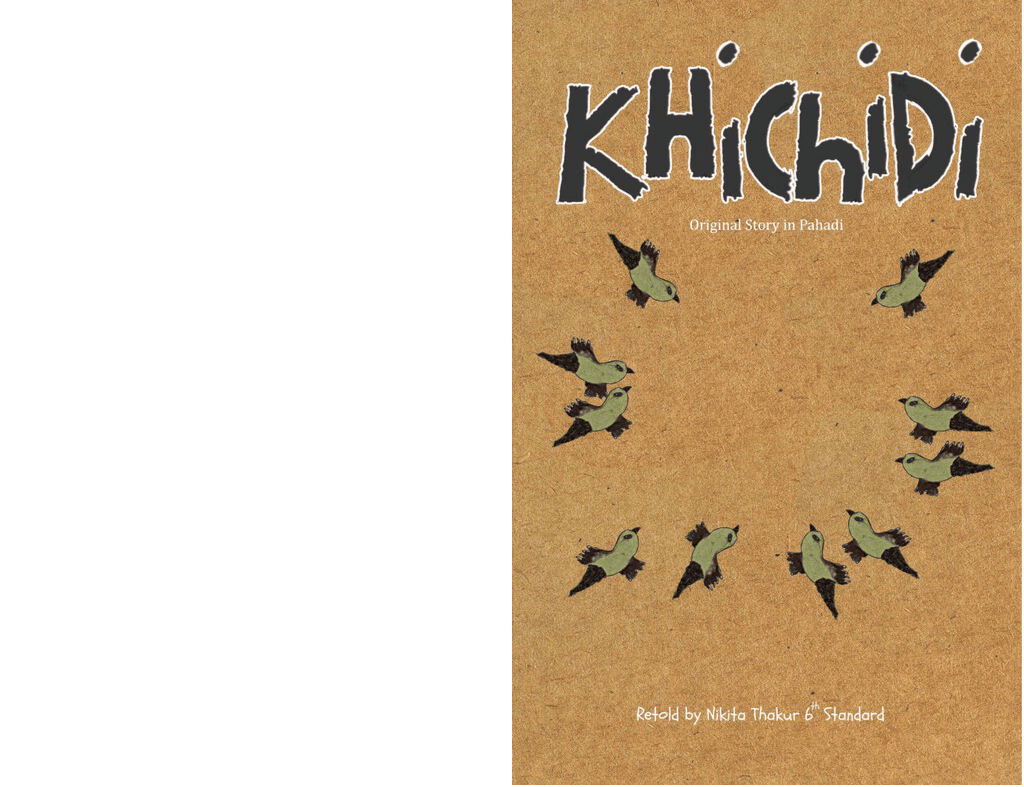
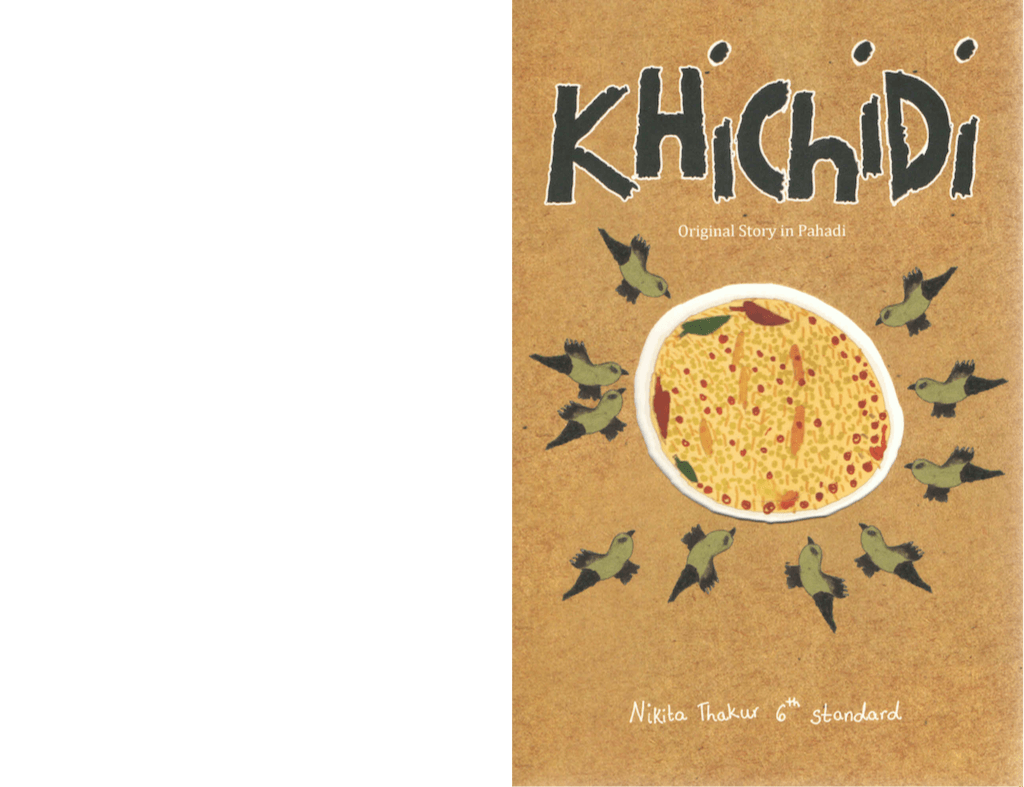
Cosmetic changes. mailto: body text changed to "Dear LeTS Team" cosmetic placement fixes for text on OnePlus mobile disabled audio book functionality entirely for now Khichdi cover changed. 	modified:   aboutus.html 	modified:   assets/css/index.css 	modified:   assets/img/books/Khichdi/00.png 	modi

Changed region(s): [[0.5, 0.0, 1.0, 1.0]]

diff --git a/process.html b/process.html
@@ -102,7 +102,7 @@
                 <div>
                     Workshops have varied from place to place, though the time spent together (4-5 days) and the primary purpose (skill-building, producing one book or several) have remained consistent over the years.</div>
                 <div>
-                    Sometimes story-telling happens during the workshop too, using word- and sentence- building games as starting points. This is generally done in groups of no more than 10 students.
+                    Sometimes story-telling happens during the workshop too, using word- and sentence- building games as starting points.  This is generally done by dividing the class into groups of roughly ten students each. 
                 </div>
                 <div>
                     After the stories are selected, students are encouraged to explore character design, settings, whether interior spaces or outside landscapes, and other such elements that are required to tell the story visually. Formats are explored, as are materials, from found-material collages using ropes, grass, leaves and rocks to create forms, to pen-and-ink drawings, crayons, sketch pens and paints of different kinds.
@@ -165,8 +165,8 @@
     <div id="footer">
         <div id="logotext"> <img src="assets/img/ftr-logo.png"> </div>
         <div id="social">
-          <a href="mailto:contactletsfoundation@gmail.com?body=Please%20tell%20us%20about%20yourself%20and%20share%20your%20thoughts.">
-            <span class="fa icon-mail"></span>
+          <a href="mailto:contactletsfoundation@gmail.com?body=Dear%20LeTS%20team,">
+                <span class="fa icon-mail"></span>
           </a>
           <a href="#"> <span class="fa icon-facebook"></span></a>
           <a href="#"> <span class="fa icon-instagram"></span></a>

diff --git a/gallery.html b/gallery.html
@@ -59,8 +59,8 @@
     <div id="footer">
         <div id="logotext"> <img src="assets/img/ftr-logo.png"> </div>
         <div id="social">
-          <a href="mailto:contactletsfoundation@gmail.com?body=Please%20tell%20us%20about%20yourself%20and%20share%20your%20thoughts.">
-            <span class="fa icon-mail"></span>
+          <a href="mailto:contactletsfoundation@gmail.com?body=Dear%20LeTS%20team,">
+                <span class="fa icon-mail"></span>
           </a>
           <a href="#"> <span class="fa icon-facebook"></span></a>
           <a href="#"> <span class="fa icon-instagram"></span></a>
@@ -161,7 +161,7 @@
                 {
                     src: "large/Artwork_Monster.jpg",
                     srct: "thumb/Artwork_Monster.jpg",
-                    title: `Rupesh Vadhav (Std. VII). Artwork for “The Monster and the Little Boy”, Gram Mangal School, Dahanu, Maharashtra`,
+                    title: `Artwork by Rupesh Vadhav (Std. VII) for "The Monster and The Little Boy", Gram Mangal School, Dahanu, Maharashtra`,
                     height: 564, width: 800,
                     imgtWidth: 282, imgtHeight: 400,
                 },

diff --git a/books.html b/books.html
@@ -38,7 +38,7 @@
         <div id="book-open"> </div>         <!-- Placeholder for book modal -->
         <div id="shelf">
             <div id="ck" class="grid-cell">
-                <div class="book-on-shelf" onclick="openBook('CleverKalyani', true);">
+                <div class="book-on-shelf" onclick="openBook('CleverKalyani');">
                     <img src='assets/img/books/CleverKalyani/00-small.jpg'>
                 </div>
             </div>
@@ -131,8 +131,8 @@
     <div id="footer">
         <div id="logotext"> <img src="assets/img/ftr-logo.png"> </div>
         <div id="social">
-          <a href="mailto:contactletsfoundation@gmail.com?body=Please%20tell%20us%20about%20yourself%20and%20share%20your%20thoughts.">
-            <span class="fa icon-mail"></span>
+          <a href="mailto:contactletsfoundation@gmail.com?body=Dear%20LeTS%20team,">
+                <span class="fa icon-mail"></span>
           </a>
           <a href="#"> <span class="fa icon-facebook"></span></a>
           <a href="#"> <span class="fa icon-instagram"></span></a>

diff --git a/assets/css/index.css b/assets/css/index.css
@@ -62,6 +62,14 @@ body > .section {
   top: 34%;
 }
 
+#intro-text-wrapper {
+  width: 45%;
+  height: 16.5%;
+  color: rgb(56, 63, 57);
+  left: 53%;
+  top: 33%;
+}
+
 #logo-text-wrapper {
   width: 40%;
   top: 51%;
@@ -98,7 +106,7 @@ h2 {
 #book-sample {
   display: flex;
   flex-direction: column;
-  top: 9.4%;
+  top: 10%;
   left: 58%;
   font-size: 0.8rem;
   width: 42%;
@@ -120,8 +128,9 @@ h2 {
   height: 11%;
   color: rgb(56, 63, 57);
   left: 40%;
-  top: 27%;
+  top: 29%;
 }
+
 
 .open-anim-video {
 	height:300px;
@@ -136,19 +145,19 @@ h2 {
 
 
 #apps-text-wrapper {
-  width: 44%;
-  height: 7%;
+  width: 49%;
+  height: 8%;
   color: rgb(56, 63, 57);
-  left: 52%;
-  top: 55%;
+  left: 50%;
+  top: 56.5%;
 }
 
 #other-sub-text-wrapper {
   width: 53%;
-  height: 4%;
+  height: 6%;
   color: rgb(56, 63, 57);
   left: 40%;
-  top: 64%;
+  top: 65%;
 }
 
 .bg-img {

diff --git a/index.html b/index.html
@@ -153,8 +153,8 @@
         </div>
       </div>
     </div>
-    <div id="book-sample" class="text-wrapper" onclick="openBook('CleverKalyani', true)"> 
-      <p>Please click here for a sample audiobook.</p>
+    <div id="book-sample" class="text-wrapper" onclick="openBook('CleverKalyani')"> 
+      <p>Click here to see a sample book.</p>
     </div>
 
     <div id="book-open"></div> <!-- div for modal -->
@@ -199,7 +199,7 @@
   <div id="footer">
     <div id="logotext"> <img src="assets/img/ftr-logo.png"> </div>
     <div id="social">
-      <a href="mailto:contactletsfoundation@gmail.com?body=Please%20tell%20us%20about%20yourself%20and%20share%20your%20thoughts.">
+      <a href="mailto:contactletsfoundation@gmail.com?body=Dear%20LeTS%20team,">
         <span class="fa icon-mail"></span>
       </a>
       <a href="#"> <span class="fa icon-facebook"></span></a>

diff --git a/aboutus.html b/aboutus.html
@@ -178,8 +178,7 @@
   <div id="footer">
     <div id="logotext"> <img src="assets/img/ftr-logo.png"> </div>
     <div id="social">
-      <a
-        href="mailto:contactletsfoundation@gmail.com?body=Please%20tell%20us%20about%20yourself%20and%20share%20your%20thoughts.">
+      <a href="mailto:contactletsfoundation@gmail.com?body=Dear%20LeTS%20team,">
         <span class="fa icon-mail"></span>
       </a>
       <a href="#"> <span class="fa icon-facebook"></span></a>
